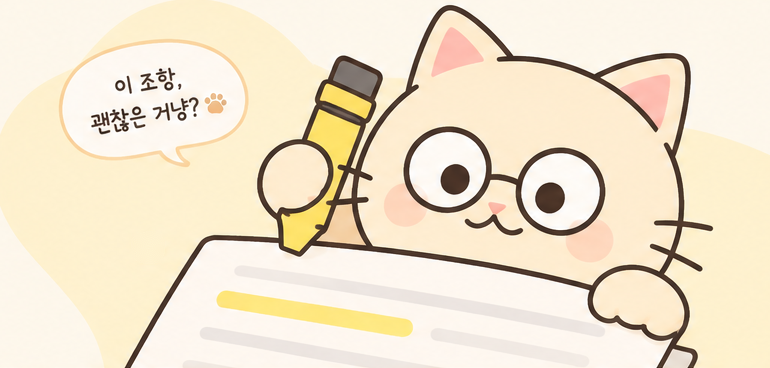
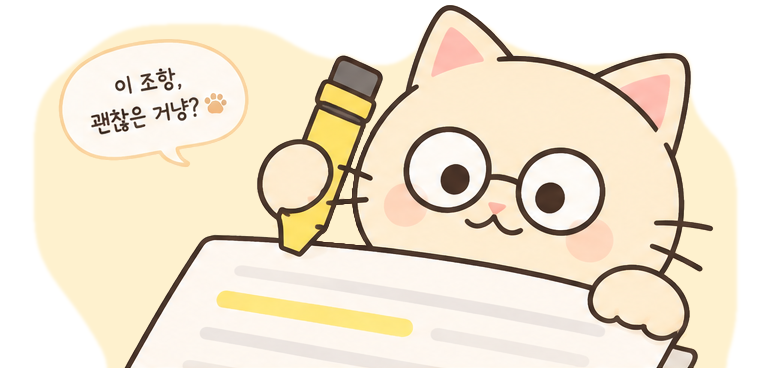
style: 히어로 이미지 배경 투명 처리와 가장자리 흐림 제거

diff --git a/app/page.module.css b/app/page.module.css
@@ -93,15 +93,13 @@
   position: relative;
 }
 
-/* 좌·우 가장자리만 좁게 페이드한다. 위쪽은 귀 끝이 흐려지지 않게 페이드하지 않고, 아래쪽은 입력 카드 뒤로 들어간다. */
+/* 이미지 배경이 투명하므로 가장자리 페이드가 필요 없다. 아래쪽은 입력 카드 뒤로 들어간다. */
 .heroImg {
   display: block;
   width: 100%;
   max-width: 600px;
   height: auto;
   margin-left: auto;
-  -webkit-mask-image: linear-gradient(to right, transparent, #000 4%, #000 96%, transparent);
-  mask-image: linear-gradient(to right, transparent, #000 4%, #000 96%, transparent);
 }
 
 /* ---------- input card ---------- */
@@ -566,14 +564,8 @@
   .heroImg {
     margin: 0 auto;
     max-width: 440px;
-    -webkit-mask-image:
-      linear-gradient(to right, transparent, #000 4%, #000 96%, transparent),
-      linear-gradient(to bottom, #000, #000 92%, transparent);
-    -webkit-mask-composite: source-in;
-    mask-image:
-      linear-gradient(to right, transparent, #000 4%, #000 96%, transparent),
-      linear-gradient(to bottom, #000, #000 92%, transparent);
-    mask-composite: intersect;
+    -webkit-mask-image: linear-gradient(to bottom, #000, #000 92%, transparent);
+    mask-image: linear-gradient(to bottom, #000, #000 92%, transparent);
   }
 
   .heroText {
